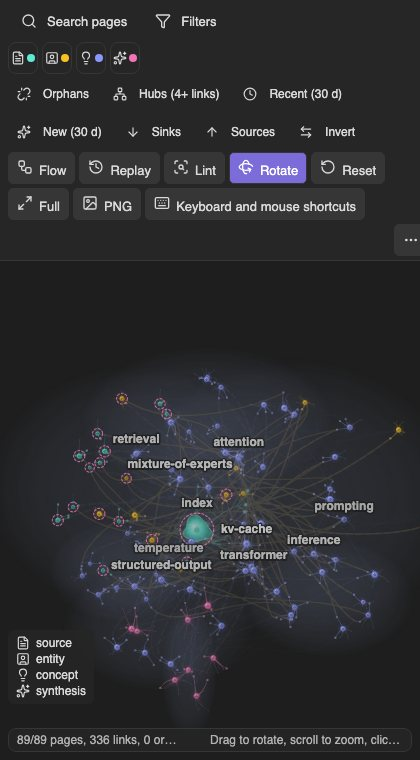
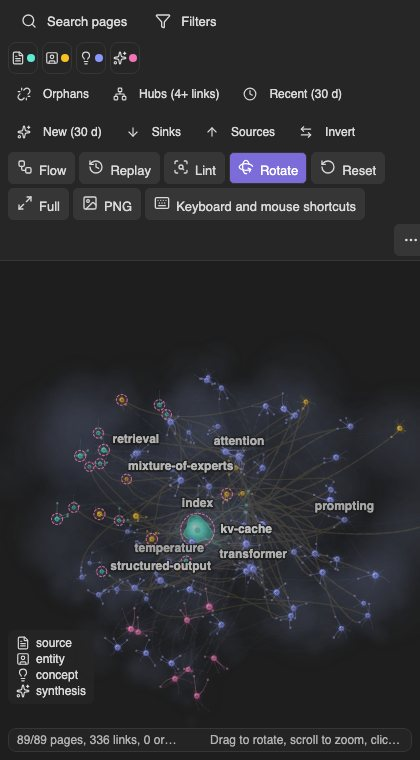
chore: 0.13.0, refreshed images for the new cloud, benchmark note
Claude-Session: https://claude.ai/code/session_01AK5uJut3kdmNhCoDa5wPPg

diff --git a/docs/benchmark.md b/docs/benchmark.md
@@ -59,4 +59,5 @@ What changed, in the order it mattered:
 
 Pure modules (`buildVaultGraph`, search, filters, routes, communities, the neuron net) are linear: at 10,000 notes the slowest, building the graph, takes about 140 ms on a fake vault, and a search keystroke about 13 ms.
 Note (0.11.0): the table above predates 0.11.0. Since then the biggest cells get full neurons at any vault size, and in a software-rendered headless browser a 10,000-node draw went from about 310-375 ms (0.10.0) to about 450 ms, a 30-45% relative cost. Those absolute numbers are not comparable to the table (different machine, no GPU); the GPU figures were not re-measured.
+Note (0.13.0): the cloud became many soft puffs drawn at a quarter of the resolution. Same software-rendered headless browser, 10,000 nodes: about 414 ms a draw against 396 ms before (+4.5%); at 350 nodes the difference is inside the noise. Not measured on a GPU.
 Open: a draw of 25-33 ms at 10,000 notes is about 35 fps; the next step would be one batched sprite pass per type, or WebGL (see TODOS.md).
